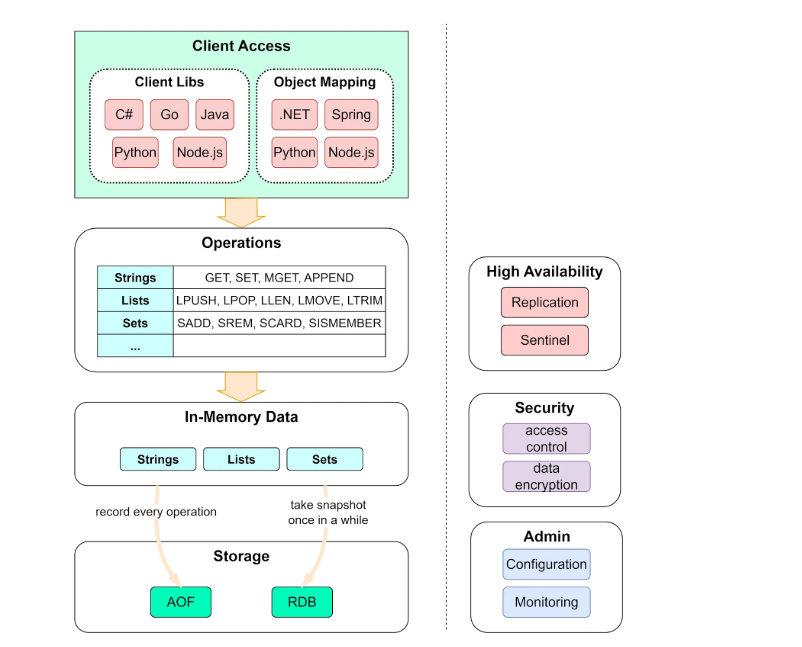
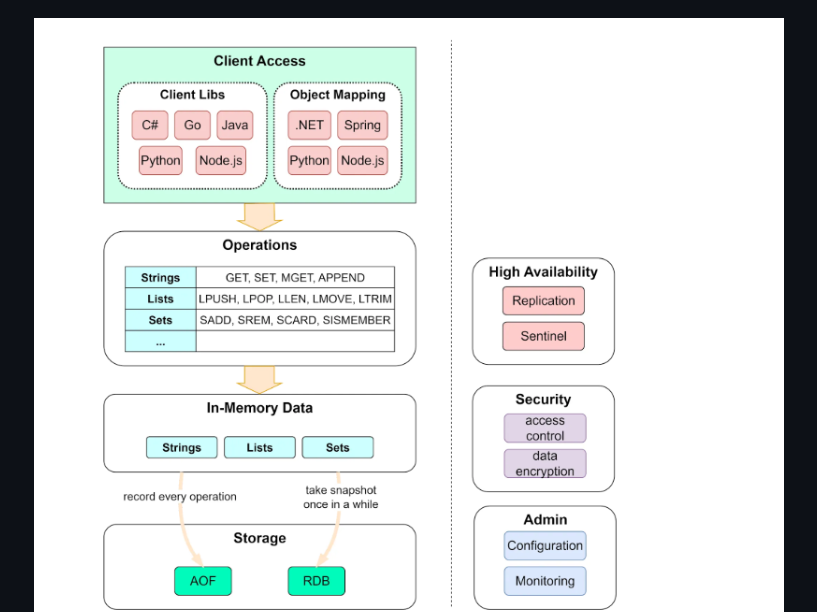
Final

diff --git a/README.md b/README.md
@@ -28,10 +28,6 @@ Redis (Remote Dictionary Server) is an open-source, in-memory data structure sto
 
 Redis is a key-value store that supports various data structures including strings, hashes, lists, sets, sorted sets, bitmaps, hyperloglogs, and streams. Unlike traditional databases that store data on disk (such as MySQL, PostgreSQL, Oracle, MongoDB, Cassandra, and Microsoft SQL Server), Redis keeps data in memory, making it extremely fast.
 
-<div align="center">
-  <img src="redis-vs-traditional-db.png" alt="Redis vs Traditional Databases" width="600"/>
-</div>
-
 ### Why Redis?
 
 - **Speed**: Sub-millisecond latency, handles millions of operations per second
